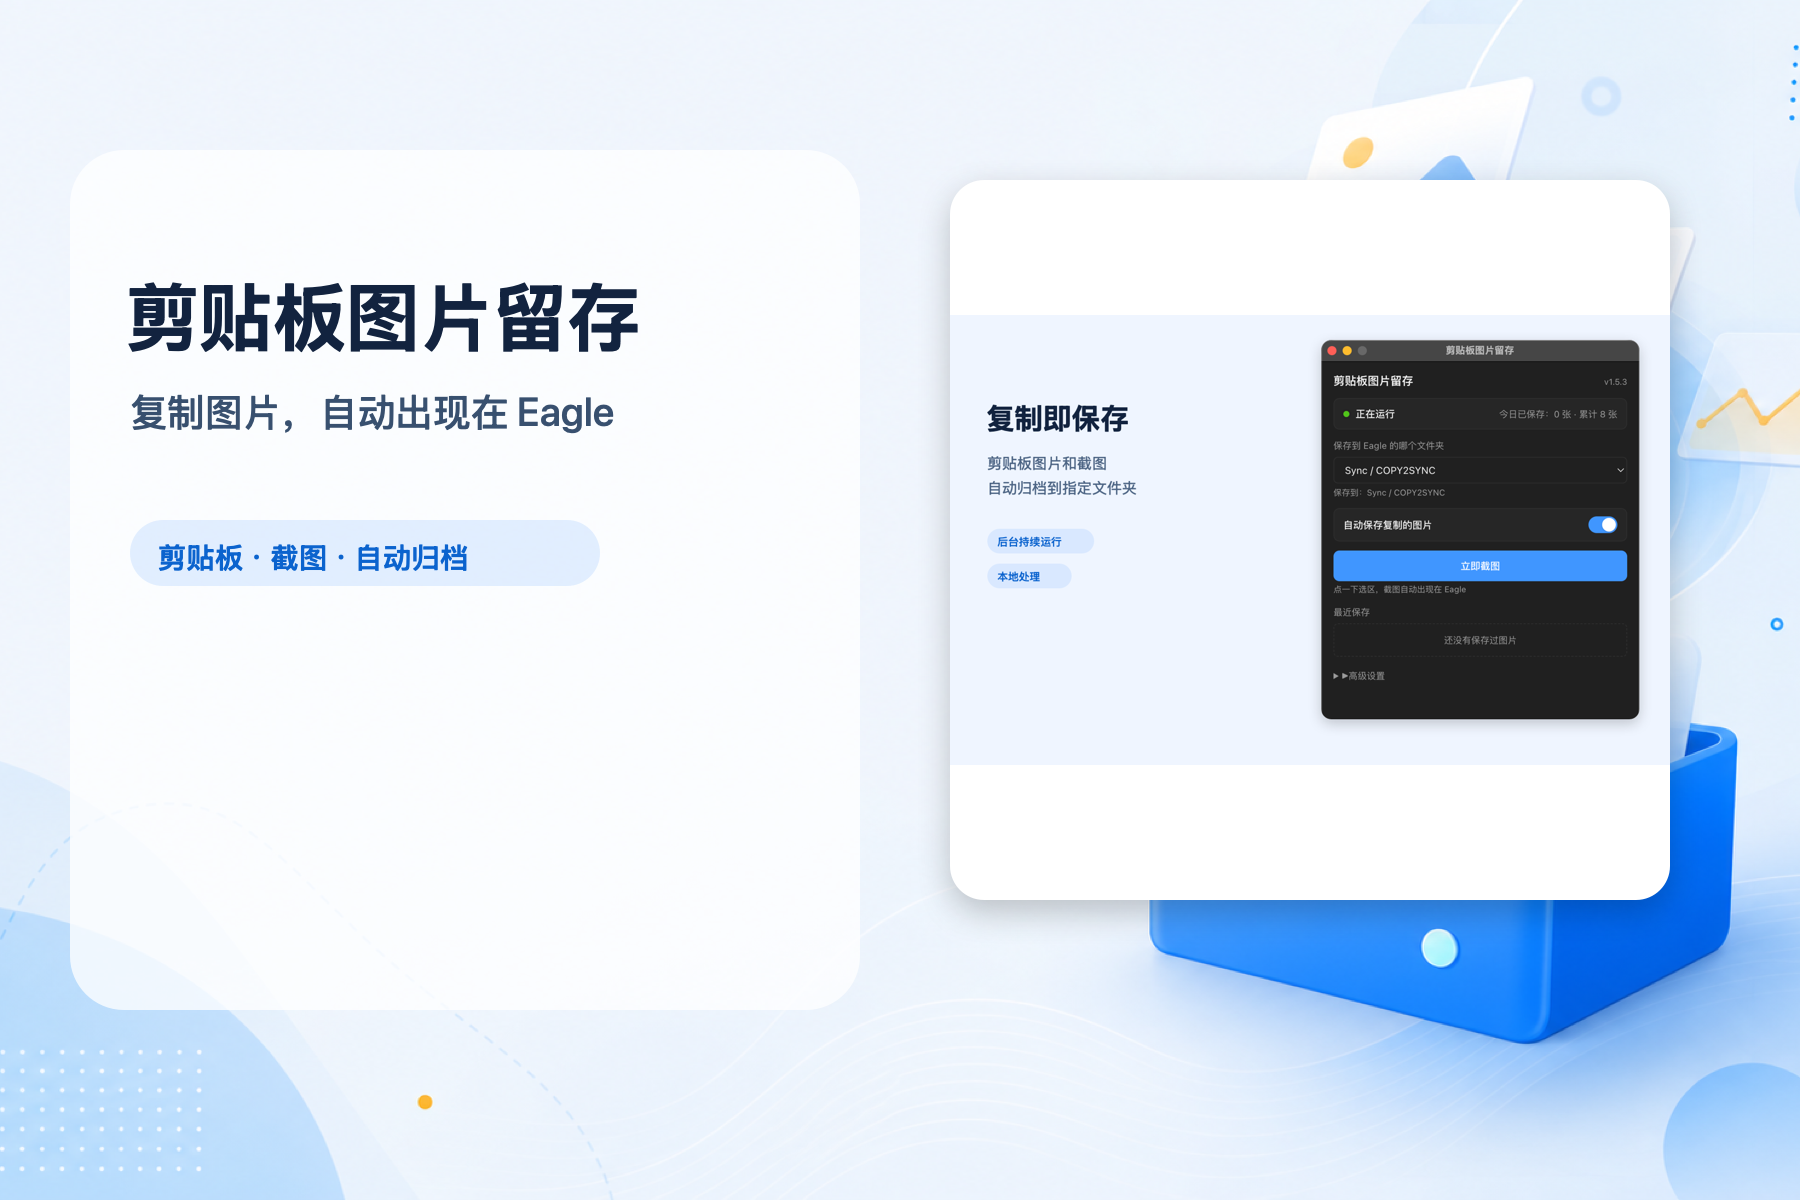
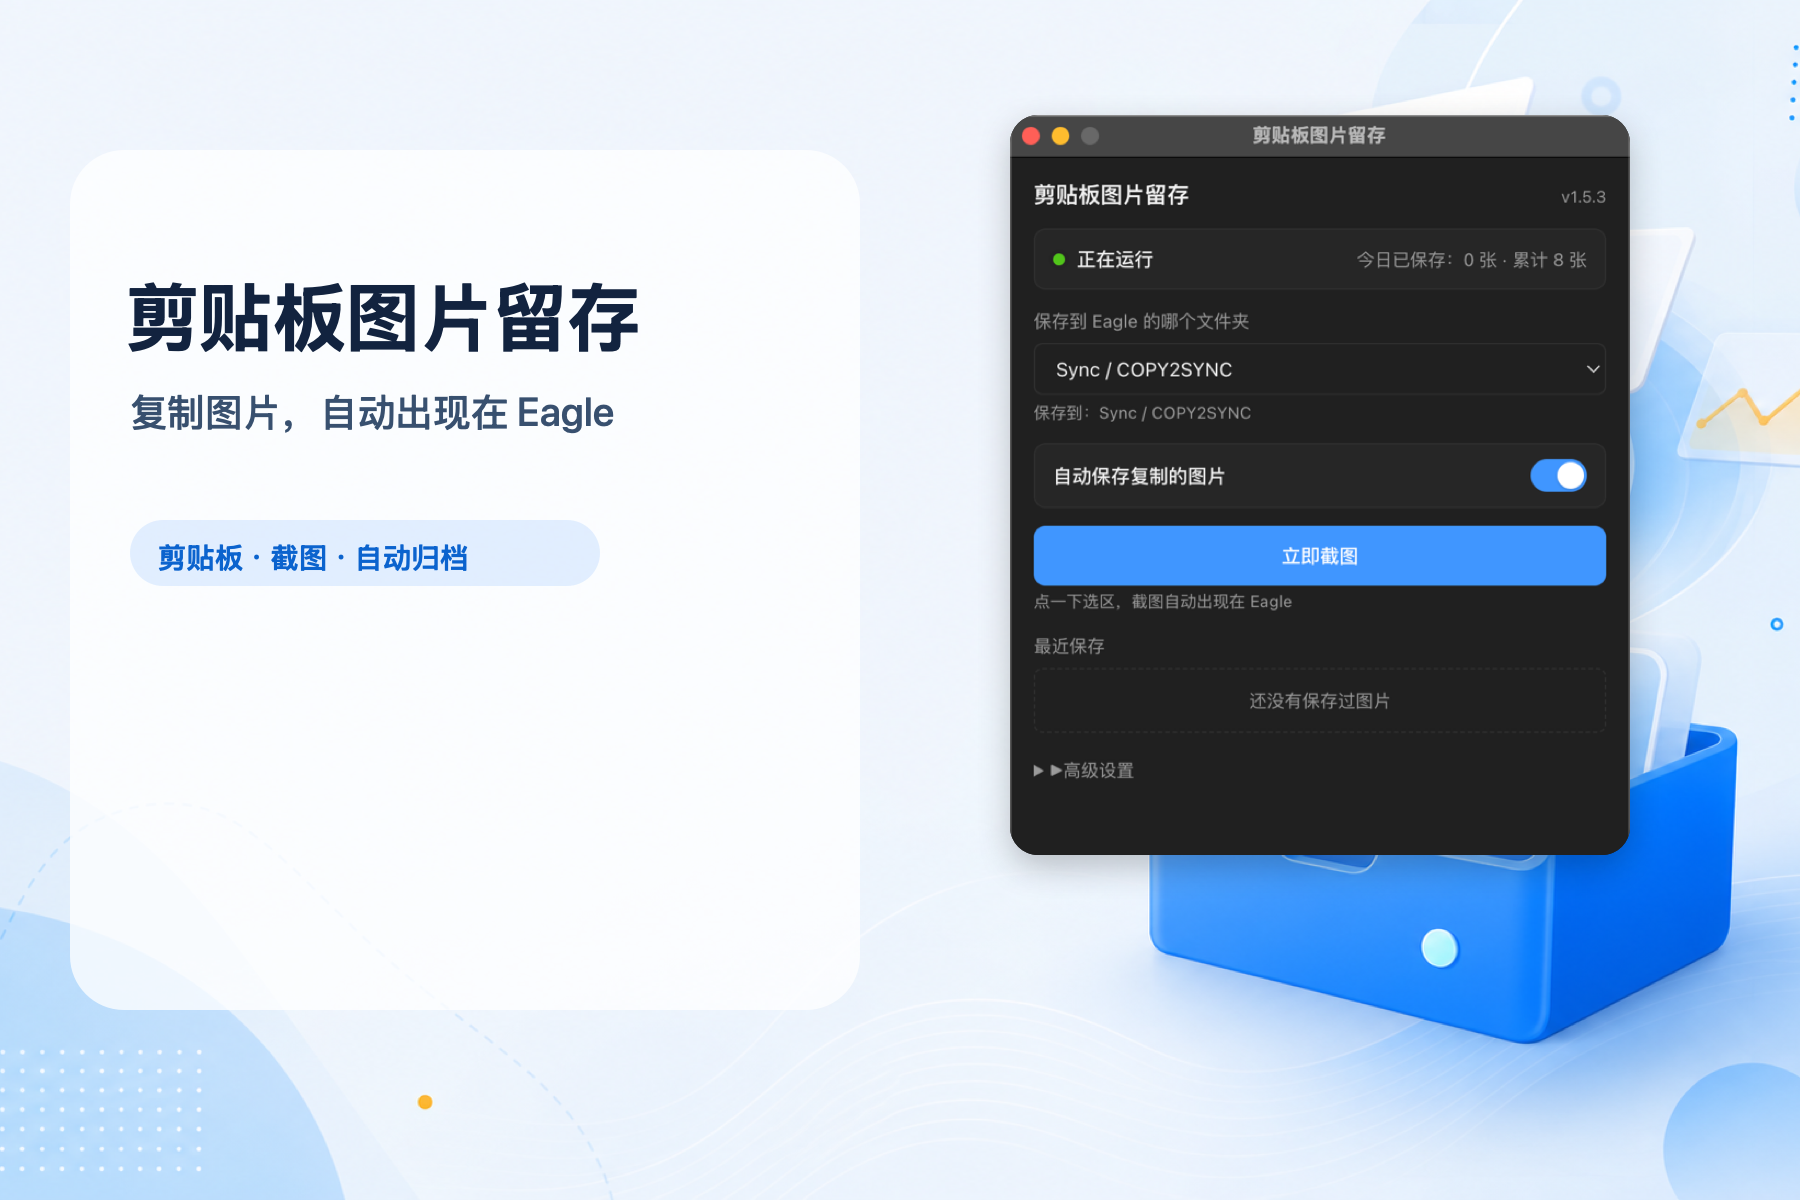
🖼 fix(docs): 移除封面截图底卡
Entire-Checkpoint: bae869b0b8bd

Changed region(s): [[0.5289, 0.0925, 0.9333, 0.7708], [0.8089, 0.5242, 0.84, 0.555]]

diff --git a/build/cover-v2.swift b/build/cover-v2.swift
@@ -38,7 +38,23 @@ func drawAspectFill(_ image: NSImage, in target: NSRect) {
     image.draw(in: target, from: source, operation: .sourceOver, fraction: 1)
 }
 
-func drawCard(_ image: NSImage, top: CGFloat, left: CGFloat, width: CGFloat, height: CGFloat, radius: CGFloat = 24) {
+struct Crop {
+    let x: CGFloat
+    let top: CGFloat
+    let width: CGFloat
+    let height: CGFloat
+}
+
+func sourceRect(for image: NSImage, crop: Crop) -> NSRect {
+    NSRect(
+        x: crop.x,
+        y: image.size.height - crop.top - crop.height,
+        width: crop.width,
+        height: crop.height
+    )
+}
+
+func drawWindowShot(_ image: NSImage, crop: Crop, top: CGFloat, left: CGFloat, width: CGFloat, height: CGFloat, radius: CGFloat = 22) {
     let target = rect(top: top, left: left, width: width, height: height)
 
     NSGraphicsContext.saveGraphicsState()
@@ -47,7 +63,7 @@ func drawCard(_ image: NSImage, top: CGFloat, left: CGFloat, width: CGFloat, hei
     shadow.shadowBlurRadius = 34
     shadow.shadowOffset = NSSize(width: 0, height: -12)
     shadow.set()
-    color(0xffffff).setFill()
+    color(0x1d1d1d).setFill()
     NSBezierPath(roundedRect: target, xRadius: radius, yRadius: radius).fill()
     NSGraphicsContext.restoreGraphicsState()
 
@@ -55,40 +71,7 @@ func drawCard(_ image: NSImage, top: CGFloat, left: CGFloat, width: CGFloat, hei
     NSBezierPath(roundedRect: target, xRadius: radius, yRadius: radius).addClip()
     image.draw(
         in: target,
-        from: NSRect(origin: .zero, size: image.size),
-        operation: .sourceOver,
-        fraction: 1
-    )
-    NSGraphicsContext.restoreGraphicsState()
-}
-
-func drawImageCardAspectFit(_ image: NSImage, top: CGFloat, left: CGFloat, width: CGFloat, height: CGFloat, radius: CGFloat = 24) {
-    let target = rect(top: top, left: left, width: width, height: height)
-
-    NSGraphicsContext.saveGraphicsState()
-    let shadow = NSShadow()
-    shadow.shadowColor = NSColor.black.withAlphaComponent(0.22)
-    shadow.shadowBlurRadius = 34
-    shadow.shadowOffset = NSSize(width: 0, height: -12)
-    shadow.set()
-    color(0xffffff).setFill()
-    NSBezierPath(roundedRect: target, xRadius: radius, yRadius: radius).fill()
-    NSGraphicsContext.restoreGraphicsState()
-
-    let scale = min(target.width / image.size.width, target.height / image.size.height)
-    let drawSize = NSSize(width: image.size.width * scale, height: image.size.height * scale)
-    let imageRect = NSRect(
-        x: target.midX - drawSize.width / 2,
-        y: target.midY - drawSize.height / 2,
-        width: drawSize.width,
-        height: drawSize.height
-    )
-
-    NSGraphicsContext.saveGraphicsState()
-    NSBezierPath(roundedRect: target, xRadius: radius, yRadius: radius).addClip()
-    image.draw(
-        in: imageRect,
-        from: NSRect(origin: .zero, size: image.size),
+        from: sourceRect(for: image, crop: crop),
         operation: .sourceOver,
         fraction: 1
     )
@@ -187,7 +170,15 @@ let cover = makeImage(background: color(0xf4f8ff)) {
     drawText("剪贴板图片留存", top: 255, left: 126, width: 640, size: 78, weight: .bold, textColor: color(0x12233f))
     drawText("复制图片，自动出现在 Eagle", top: 380, left: 130, width: 620, size: 40, weight: .medium, textColor: color(0x38506f))
     drawPill("剪贴板 · 截图 · 自动归档", top: 520, left: 130, width: 470)
-    drawImageCardAspectFit(overview, top: 180, left: 950, width: 720, height: 720, radius: 34)
+    drawWindowShot(
+        overview,
+        crop: Crop(x: 660, top: 44, width: 566, height: 675),
+        top: 115,
+        left: 1010,
+        width: 620,
+        height: 740,
+        radius: 28
+    )
 }
 
 write(cover, to: output)

diff --git a/assets/plugin-center/README.md b/assets/plugin-center/README.md
@@ -2,7 +2,7 @@
 
 ## Final Files
 
-- `cover-1800x1200.png` — Plugin Center cover for upload; 3:2 ratio and exceeds the current first-image minimum of 1560×1040 px. The v2 cover preserves screenshot aspect ratios and keeps the layout simple.
+- `cover-1800x1200.png` — Plugin Center cover for upload; 3:2 ratio and exceeds the current first-image minimum of 1560×1040 px. The v2 cover uses a simple left text panel plus one un-stretched plugin window screenshot on the right.
 - `screenshot-01-overview.png` — main panel and core workflow
 - `screenshot-02-eagle-result.png` — imported images shown in Eagle
 - `screenshot-03-settings.png` — naming, deduplication, and routing settings
